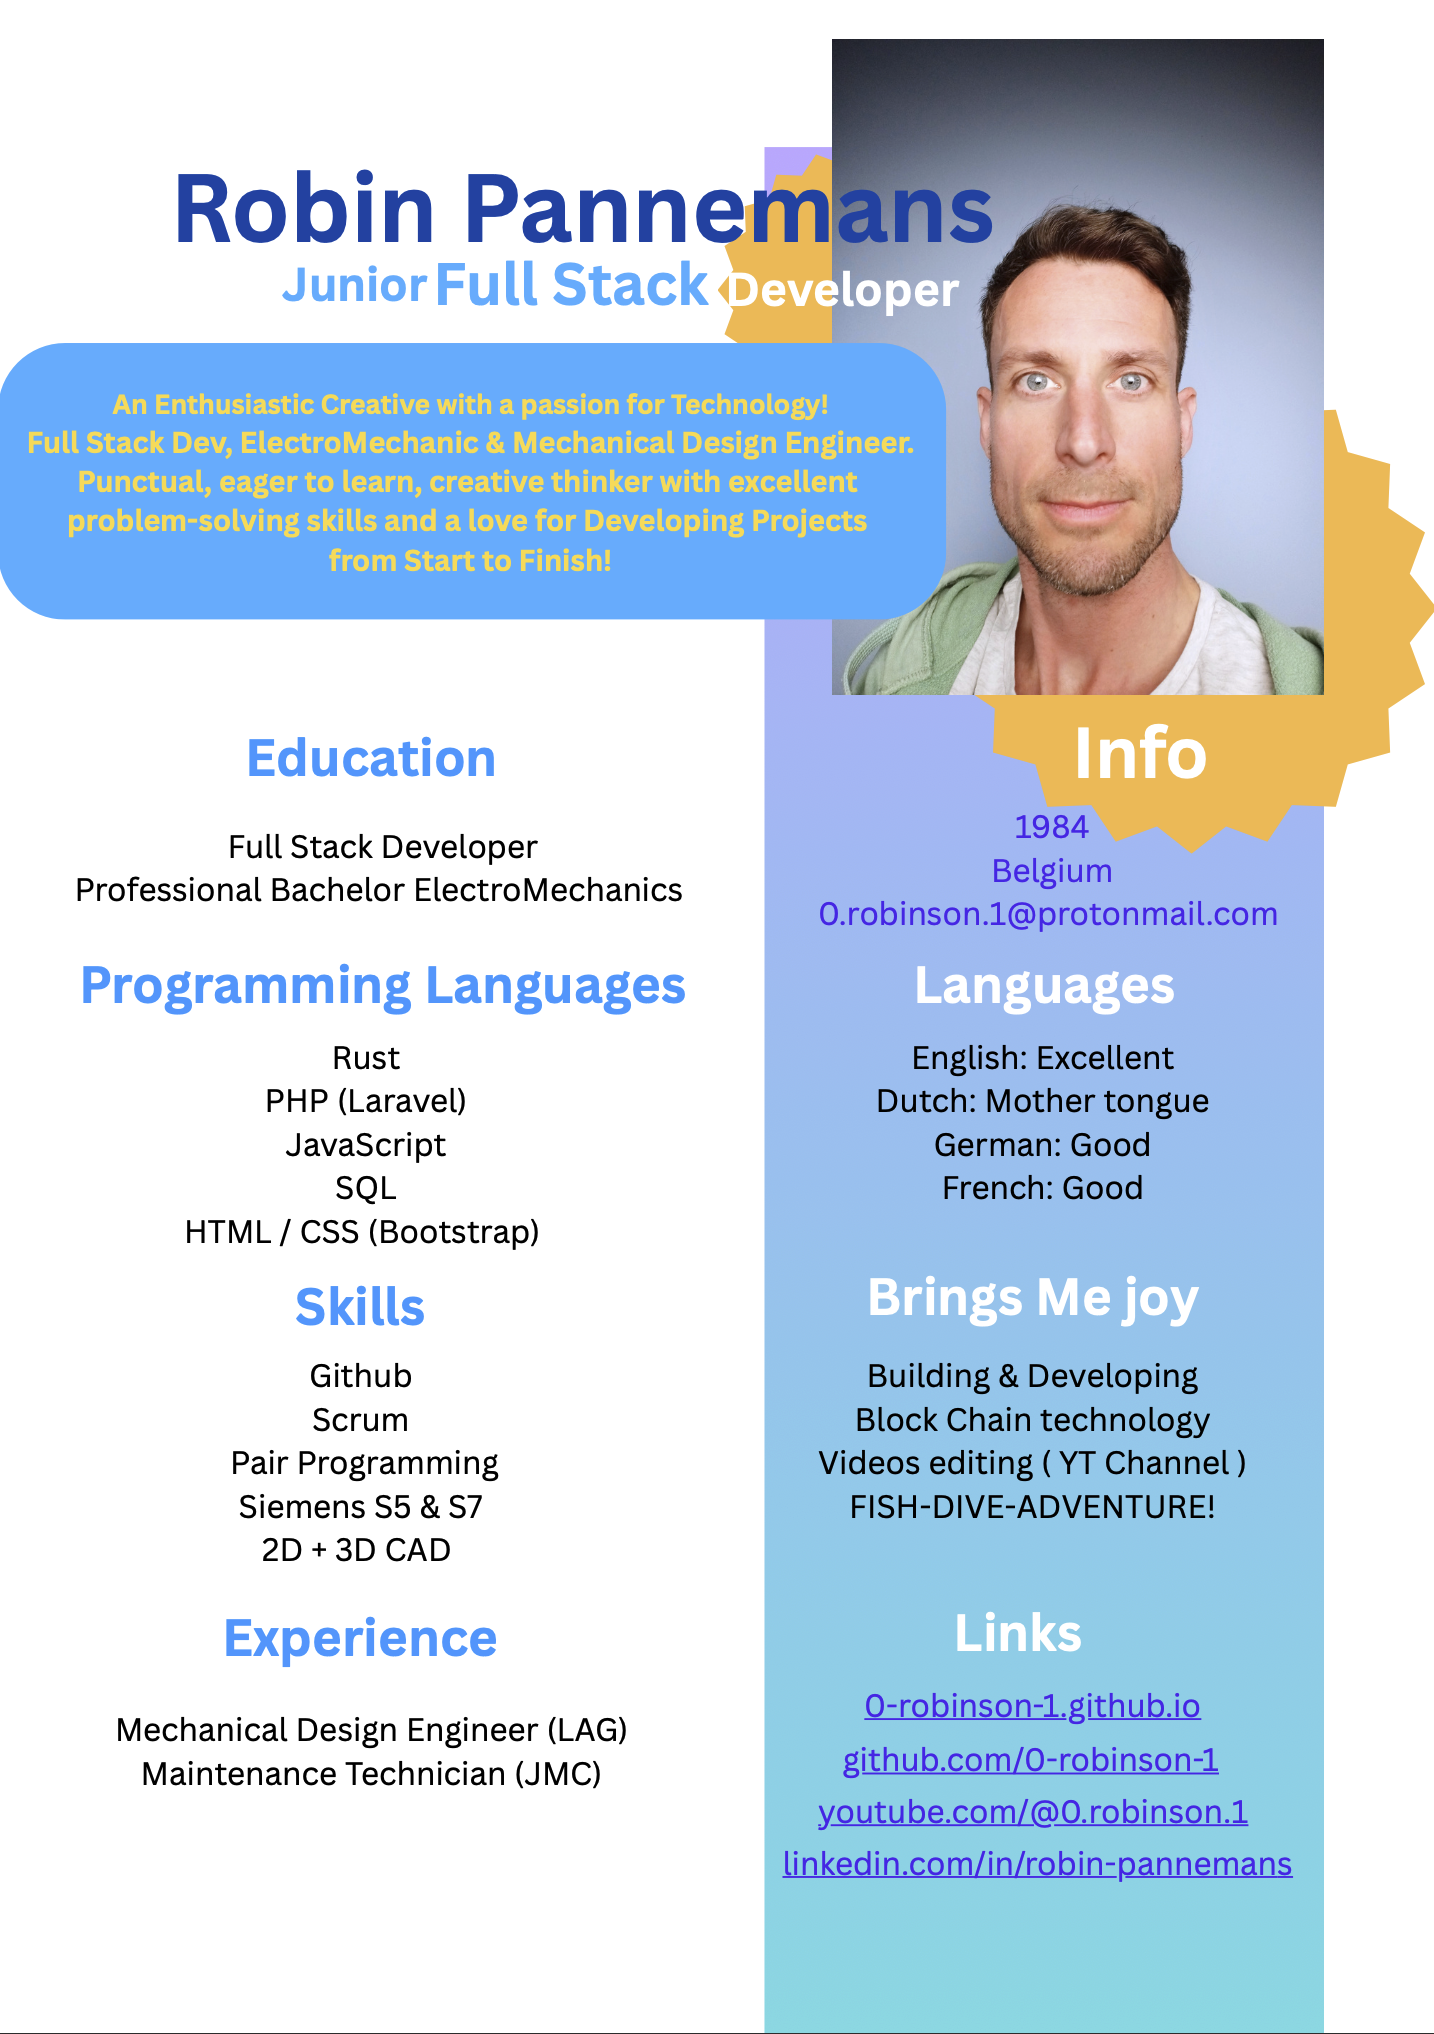
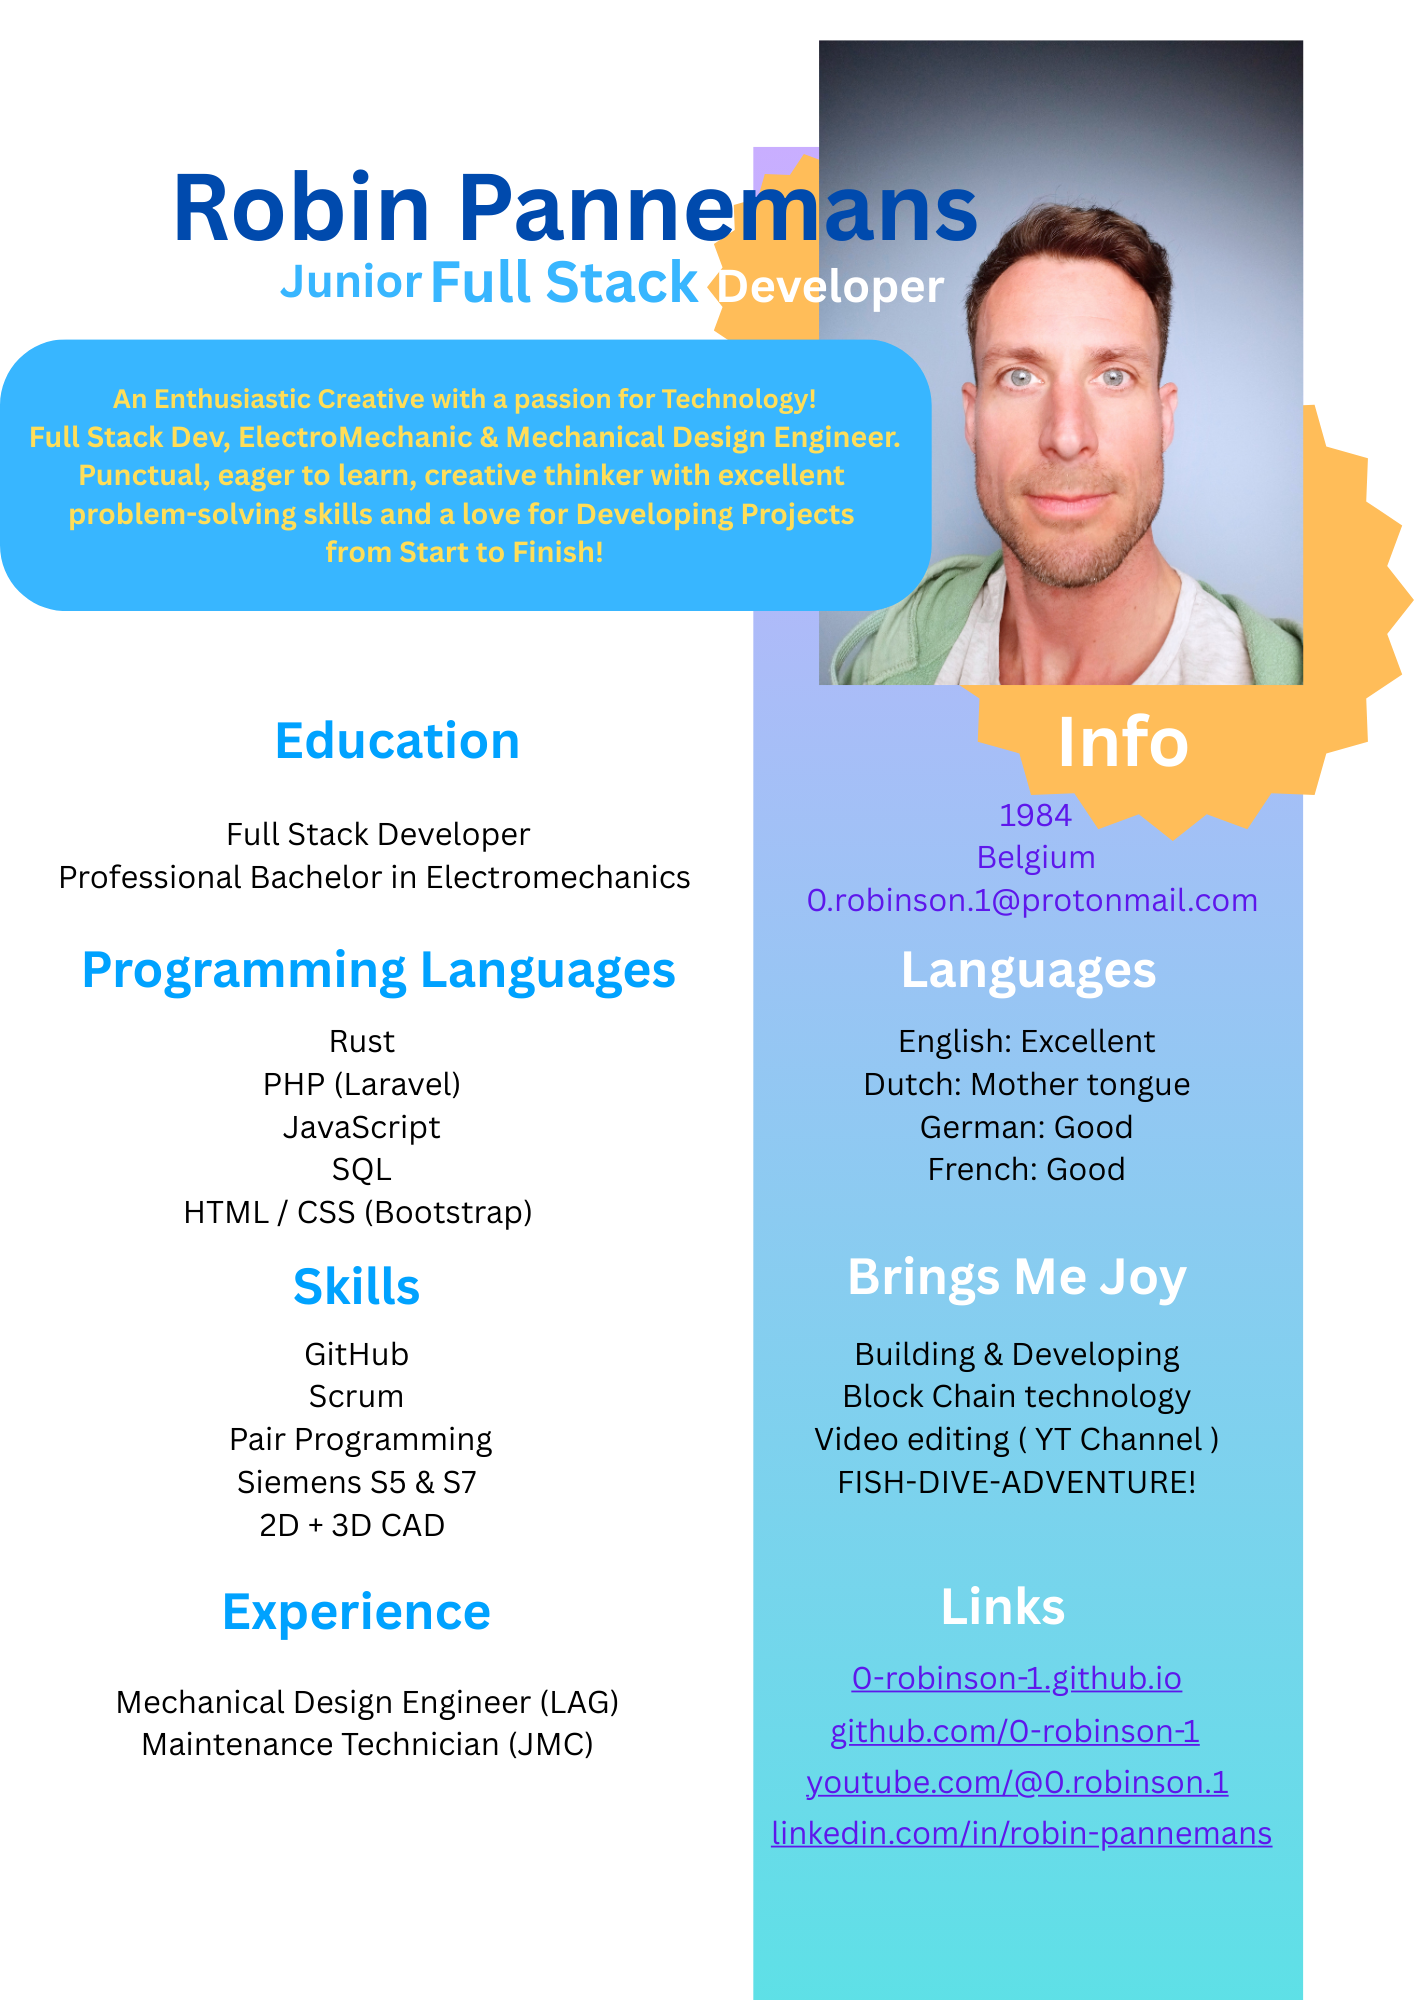
Corrected spelling changes in CV

diff --git a/contactAboutMe.html b/contactAboutMe.html
@@ -33,7 +33,7 @@
   </div>
 </nav>
 <main class="container mt-5 pt-5">
-  <h1 class="display-4 text-white mb-4">Contact me:</h1>
+  <h1 class="display-4 text-white mb-4">Contact me</h1>
 <form action="https://submit-form.com/aXNifKQaN" method="POST" class="mb-5">
   <input type="hidden" name="_redirect" value="https://0-robinson-1.github.io/thank-you.html">
   <div class="mb-3">
